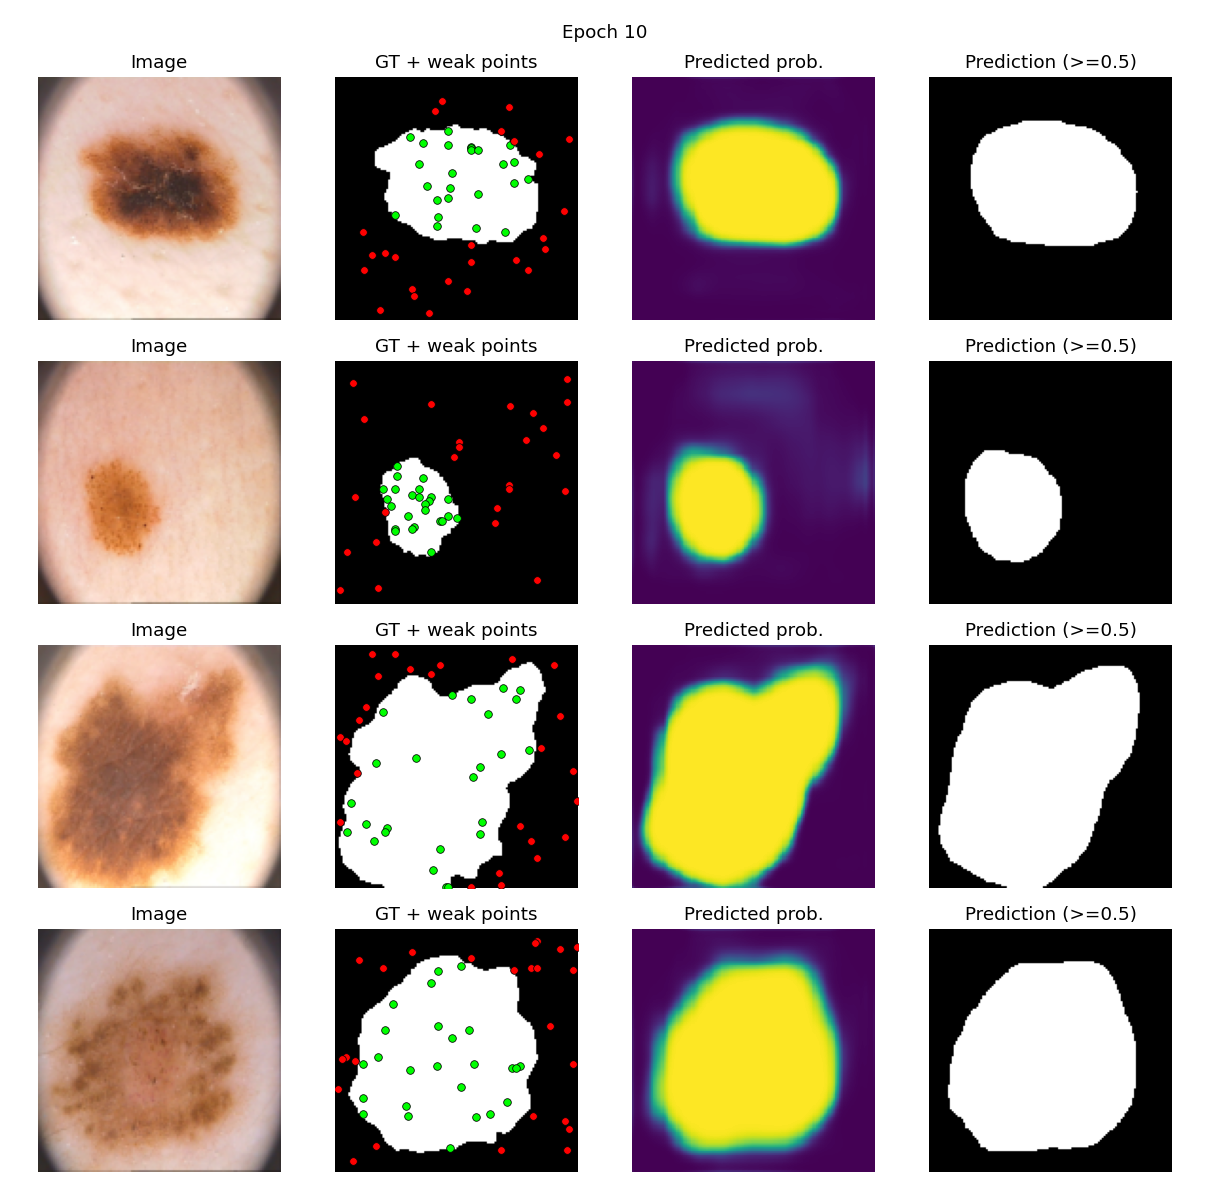
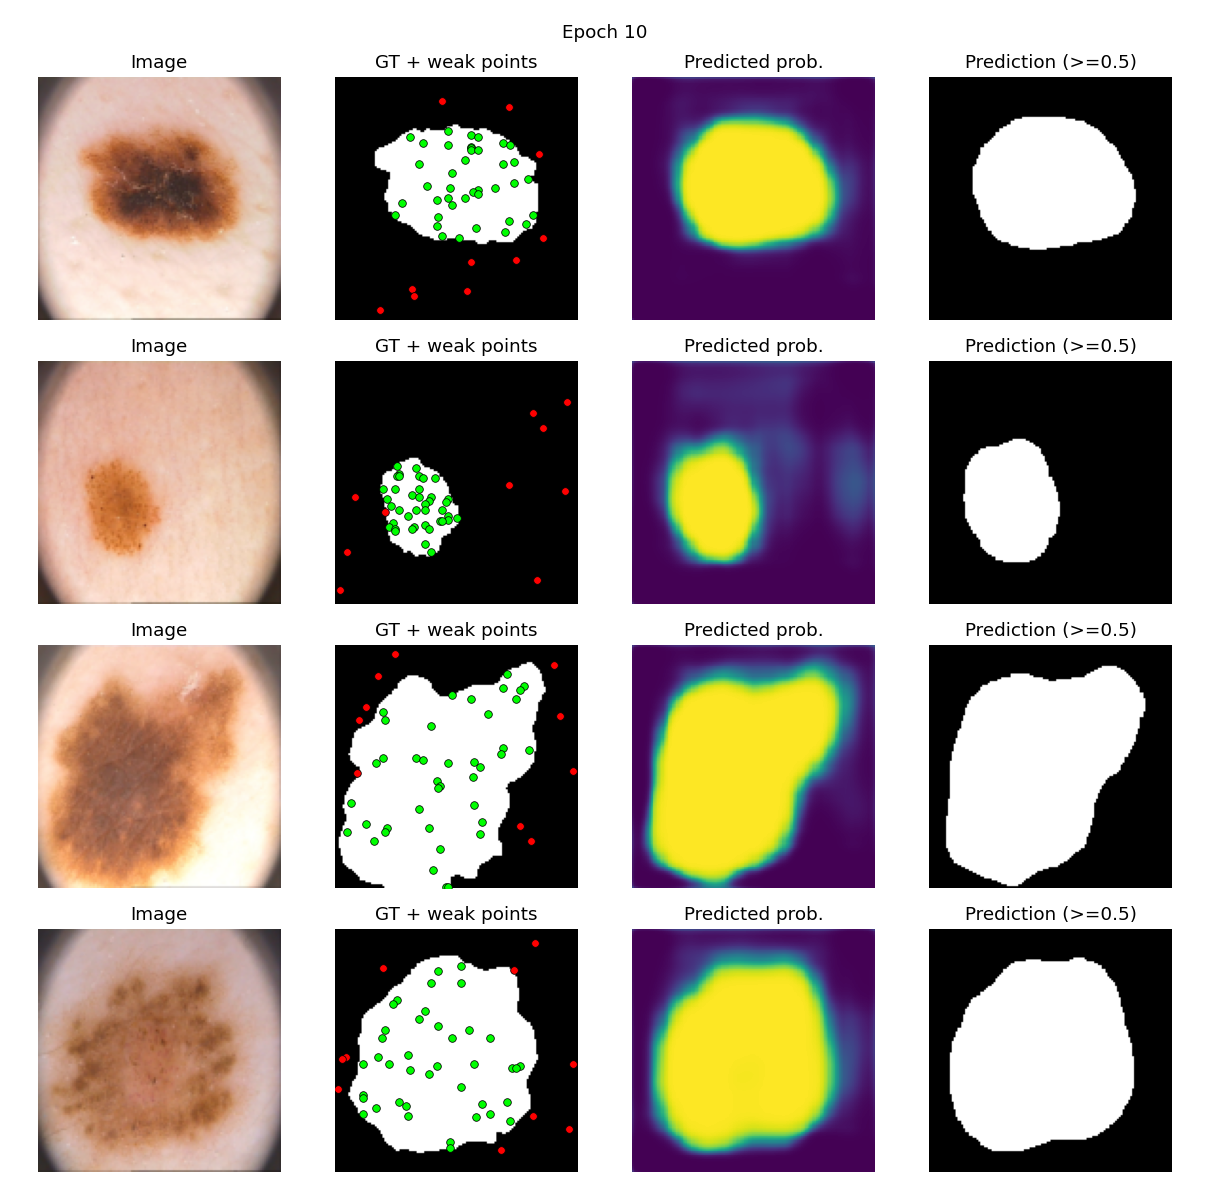
Bruh

diff --git a/EncDec/EncDec_main.py b/EncDec/EncDec_main.py
@@ -34,7 +34,7 @@ Y_all = torch.stack([train_set[i][1] for i in range(len(train_set))])
 
 annotator = Weak_Annotation(Y_all, seed=seed)
 weak_all = torch.stack([
-    annotator.annotate(i, num_positive_samples=25, num_negative_samples=25, sampling="uniform")
+    annotator.annotate(i, num_positive_samples=40, num_negative_samples=10, sampling="uniform")
     for i in range(len(Y_all))
 ]).unsqueeze(1).float()
 
@@ -157,7 +157,7 @@ for name, loader in splits.items():
     all_metrics[name] = m
     print(f"{name:5s}: " + " | ".join(f"{k}={v:.4f}" for k, v in m.items()))
 
-with open(f"{results_dir}/final_metrics_{dataset}_rand.json", "w") as f:
+with open(f"{results_dir}/final_metrics_{dataset}_rand_40_10.json", "w") as f:
     json.dump(all_metrics, f, indent=2)
 
 
@@ -197,4 +197,4 @@ def save_predictions(loader, path, n=8):
     plt.savefig(path, dpi=120)
     plt.close(fig)
 
-save_predictions(test_loader, f"{results_dir}/test_predictions_{dataset}_rand.png", n=8)
+save_predictions(test_loader, f"{results_dir}/test_predictions_{dataset}_rand_40_10.png", n=8)

diff --git a/UNet/UNet_main.py b/UNet/UNet_main.py
@@ -21,8 +21,8 @@ learning_rate = 0.001
 epochs = 30
 dataset = "PH2"
 loss_function = "weak"
-num_positive_samples = 25
-num_negative_samples = 25
+num_positive_samples = 50
+num_negative_samples = 30
 
 transform = transforms.Compose([transforms.Resize((size, size)),
                                 transforms.ToTensor()])
